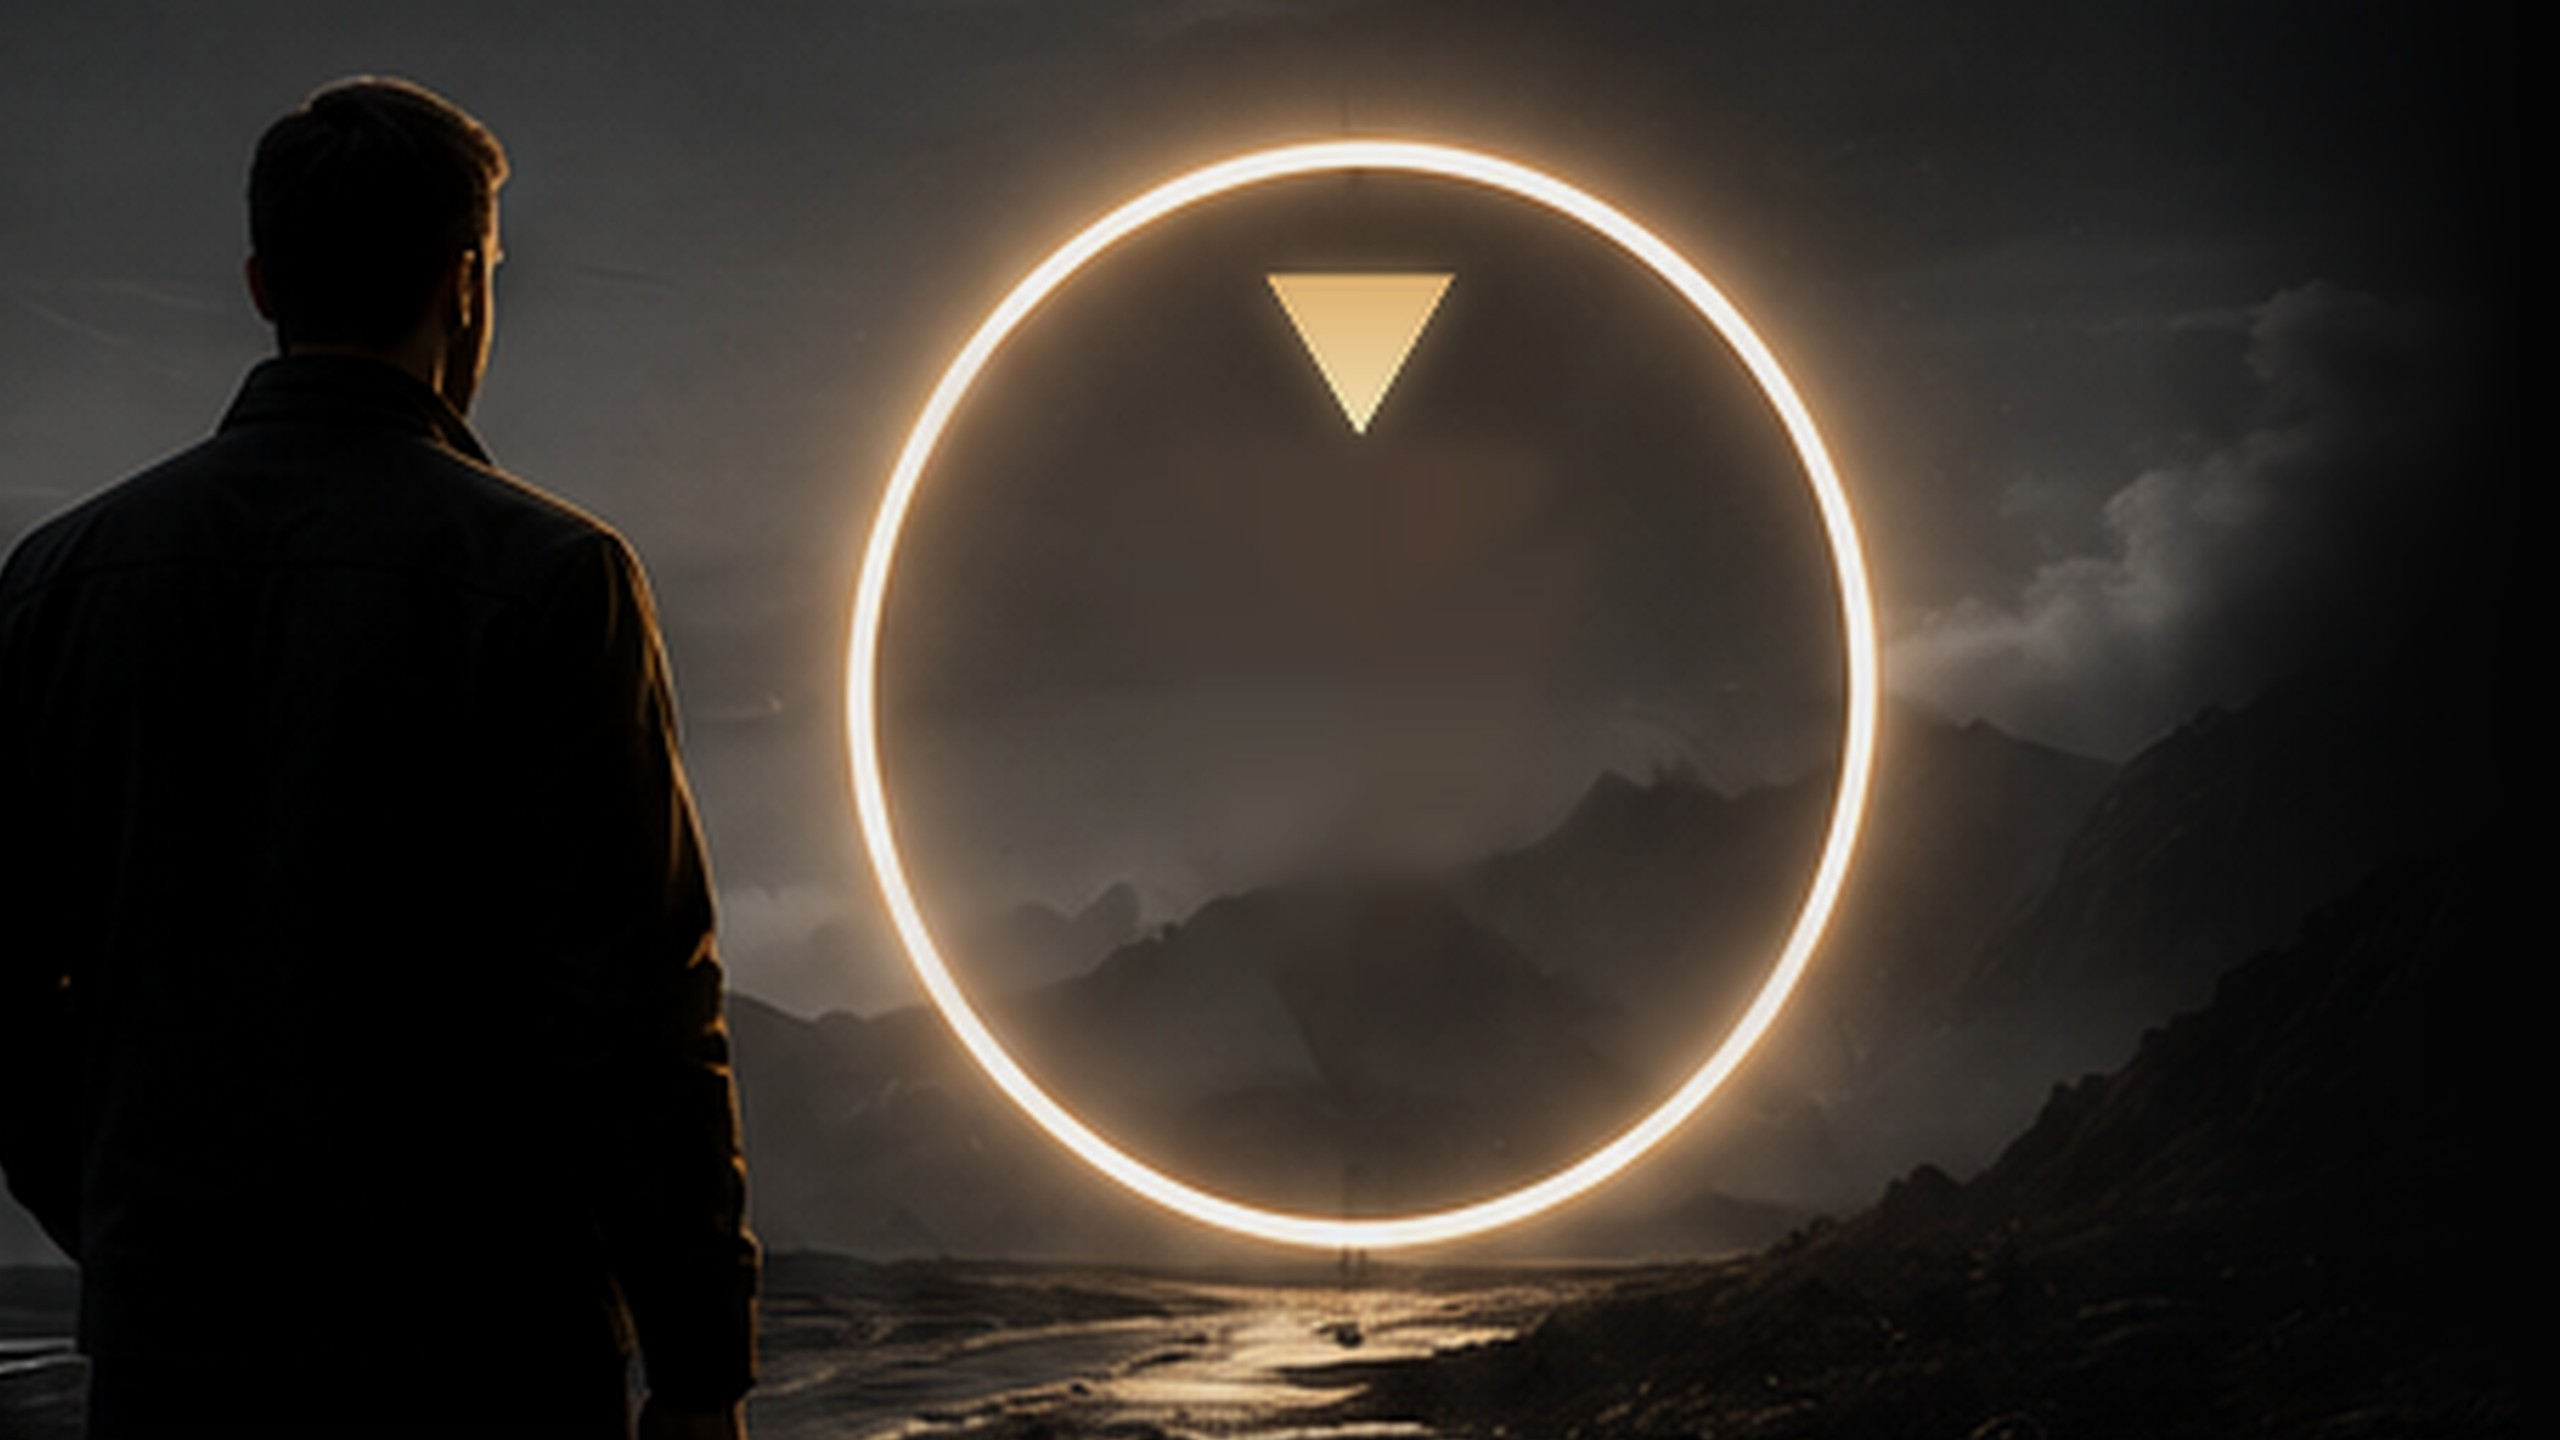
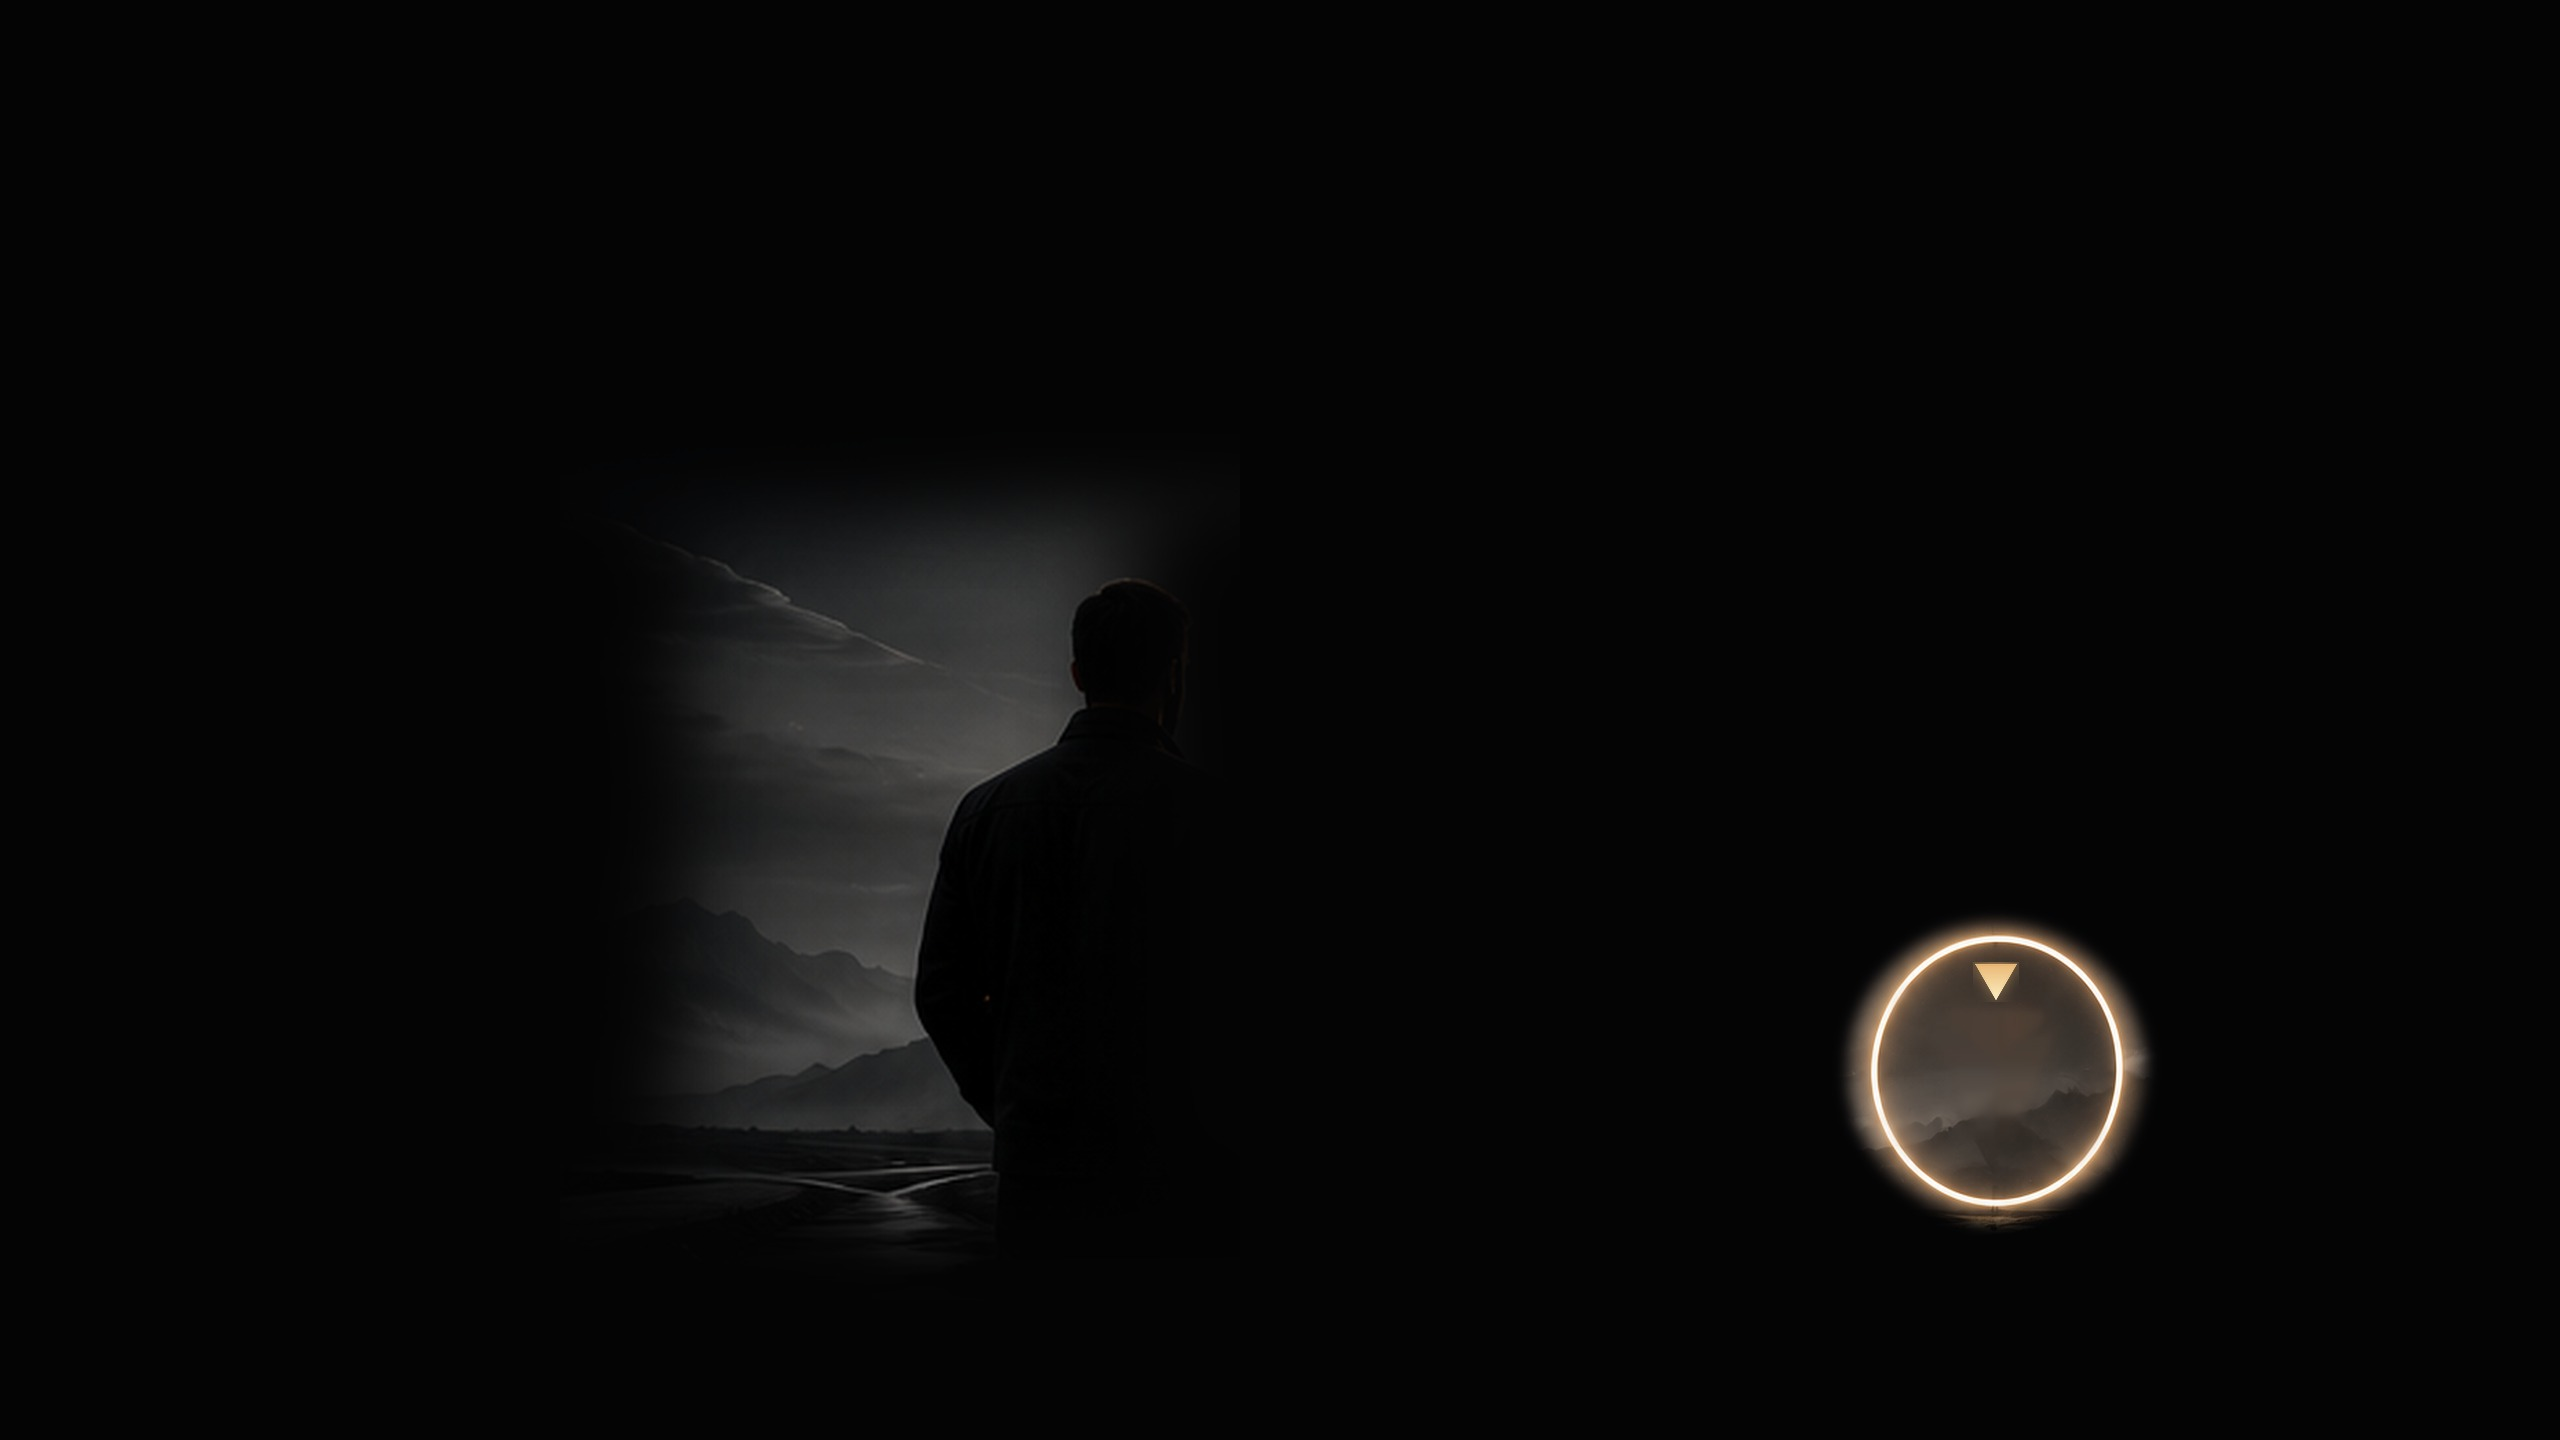
Corrige scroll bloqueado, recompone el Acto II y unifica tipografía
- Bug crítico: body tenía overflow:hidden (heredado de cuando el
  Acto I era la única pantalla), lo que bloqueaba todo el scroll de
  la página — no se podía bajar del Acto I al Acto II ni volver a
  subir. Eliminado.
- Escena del Acto II recompuesta: el hombre y el aro ahora son dos
  «islas» independientes sobre negro puro (no una sola foto a sangre
  completa), lo que permite alejar el aro mucho más a la derecha,
  reducirlo de tamaño, dejarle margen limpio antes del borde y abrir
  una columna de texto igual de despejada que en el Acto I. El aro
  se desvanece con una viñeta radial (no un recorte rectangular).
- Triángulo redibujado a resolución final (nítido, sin heredar el
  desenfoque de la foto de origen de baja resolución).
- Eyebrow del Acto II unificado con la clase .eyebrow de marca
  (mayúsculas, mismo tracking) en vez de un estilo propio, y subido
  de 13 a 15px en toda la página para más legibilidad.
- Nuevos textos de las puertas 01 (La joyería), 02 (La reventa) y 05
  (El superclón); cuerpo de las tarjetas a 15px con más contraste.

Claude-Session: https://claude.ai/code/session_01T42nA8DwhTduzUutQTTGm4

diff --git a/v2/index.html b/v2/index.html
@@ -24,7 +24,7 @@ html,body{height:100%}
 body{
   background:var(--negro);color:var(--hueso);
   font-family:'Nunito Sans',system-ui,sans-serif;
-  -webkit-font-smoothing:antialiased;overflow:hidden;
+  -webkit-font-smoothing:antialiased;
 }
 
 /* logotipo, solo — sin menú: aún no hay a dónde ir */
@@ -63,8 +63,8 @@ body{
   padding:0 44px;max-inline-size:none}
 .texto>*{opacity:0;animation:subir 1s cubic-bezier(.2,.6,.2,1) forwards}
 @keyframes subir{from{opacity:0;transform:translateY(14px)}to{opacity:1;transform:none}}
-.eyebrow{font-family:'JetBrains Mono',monospace;font-size:13px;font-weight:700;
-  letter-spacing:.34em;text-transform:uppercase;color:var(--oro);line-height:2;
+.eyebrow{font-family:'JetBrains Mono',monospace;font-size:15px;font-weight:700;
+  letter-spacing:.3em;text-transform:uppercase;color:var(--oro);line-height:1.85;
   animation-delay:.5s}
 h1{font-family:'Source Serif 4',Georgia,serif;font-weight:400;
   font-size:clamp(40px,4.6vw,76px);line-height:1.12;letter-spacing:.01em;
@@ -92,7 +92,7 @@ h1{font-family:'Source Serif 4',Georgia,serif;font-weight:400;
   .hero .foto{transform-origin:54% 70%}
   .hero .foto img{object-position:center bottom}
   .texto{padding:0 26px;justify-content:flex-start;padding-top:11svh;align-items:flex-start}
-  .eyebrow{font-size:11px;letter-spacing:.26em}
+  .eyebrow{font-size:12.5px;letter-spacing:.24em}
   h1{font-size:clamp(27px,7.7vw,34px);margin-top:20px;max-width:14ch}
   .sub{font-size:16px;margin-top:14px}
   .cta{margin-top:26px;padding:14px 22px;font-size:11.5px}
@@ -110,16 +110,13 @@ h1{font-family:'Source Serif 4',Georgia,serif;font-weight:400;
 .a2-escena{position:relative;min-height:100svh;display:flex;align-items:center;overflow:hidden}
 .a2-escena picture{position:absolute;inset:0;z-index:0}
 .a2-escena img{width:100%;height:100%;object-fit:cover;object-position:center}
-.a2-escena::before{content:"";position:absolute;inset:0;z-index:1;
-  background:linear-gradient(100deg,rgba(5,5,5,.93) 0%,rgba(5,5,5,.80) 32%,rgba(5,5,5,.28) 56%,transparent 72%)}
 .a2-texto{position:relative;z-index:2;max-width:1500px;margin:0 auto;width:100%;padding:0 44px}
-.a2-eyebrow{font-family:'JetBrains Mono',monospace;font-size:13.5px;font-weight:700;
-  letter-spacing:.04em;color:var(--oro);line-height:1.7;max-width:32ch}
+.a2-eyebrow{max-width:30ch}
 .a2-titular{font-family:'Source Serif 4',Georgia,serif;font-weight:400;color:#fff;
-  font-size:clamp(32px,4vw,58px);line-height:1.16;margin-top:22px;max-width:12ch}
-.a2-boton{margin-top:40px;display:inline-flex;align-items:center;gap:10px;background:transparent;
-  border:1px solid rgba(245,211,77,.55);color:var(--ambar);border-radius:2px;padding:16px 26px;
-  font-family:'JetBrains Mono',monospace;font-size:12.5px;font-weight:700;letter-spacing:.16em;
+  font-size:clamp(34px,4.2vw,60px);line-height:1.16;margin-top:24px;max-width:12ch}
+.a2-boton{margin-top:42px;display:inline-flex;align-items:center;gap:10px;background:transparent;
+  border:1px solid rgba(245,211,77,.55);color:var(--ambar);border-radius:2px;padding:17px 28px;
+  font-family:'JetBrains Mono',monospace;font-size:13px;font-weight:700;letter-spacing:.18em;
   text-transform:uppercase;cursor:pointer;transition:background .25s,border-color .25s}
 .a2-boton .laora{font-family:'Nunito Sans',sans-serif;text-transform:none;font-weight:800;letter-spacing:.02em}
 .a2-boton:hover{background:rgba(245,211,77,.08);border-color:var(--ambar)}
@@ -143,7 +140,7 @@ h1{font-family:'Source Serif 4',Georgia,serif;font-weight:400;
 .puerta .ico svg{width:100%;height:100%}
 .puerta h3{font-family:'Nunito Sans',sans-serif;font-weight:800;color:#fff;font-size:14.5px;
   text-transform:uppercase;letter-spacing:.02em;margin:0 0 9px}
-.puerta p{font-size:14px;color:#cfcbc3;line-height:1.4;margin:0 0 16px;min-height:38px}
+.puerta p{font-size:15px;color:#d9d6cf;line-height:1.45;margin:0 0 16px;min-height:52px}
 .puerta .veredicto{display:inline-flex;align-items:center;gap:7px;font-family:'JetBrains Mono',monospace;
   font-size:10.5px;font-weight:700;letter-spacing:.06em;text-transform:uppercase;color:#8a8f96}
 .puerta .veredicto .x{width:15px;height:15px;border:1.3px solid #b23b3b;border-radius:50%;
@@ -158,12 +155,11 @@ h1{font-family:'Source Serif 4',Georgia,serif;font-weight:400;
   .puerta:nth-child(even){padding-left:16px}
 }
 @media(max-width:760px){
-  .a2-escena{align-items:flex-start;padding-top:13svh}
-  .a2-escena::before{background:linear-gradient(178deg,rgba(5,5,5,.95) 0%,rgba(5,5,5,.8) 38%,transparent 66%)}
+  .a2-escena{align-items:flex-start;padding-top:9svh}
   .a2-texto{padding:0 26px}
-  .a2-eyebrow{font-size:11.5px;max-width:24ch}
-  .a2-titular{font-size:clamp(26px,7.4vw,34px);margin-top:16px;max-width:11ch}
-  .a2-boton{margin-top:26px;padding:14px 22px;font-size:11px}
+  .a2-eyebrow{max-width:24ch}
+  .a2-titular{font-size:clamp(27px,7.7vw,34px);margin-top:18px;max-width:11ch}
+  .a2-boton{margin-top:28px;padding:15px 24px;font-size:11.5px}
   .puertas{padding:46px 22px 16px}
   .puerta{padding-bottom:22px}
   .a2-cierre{font-size:21px;padding:26px 24px 70px}
@@ -206,7 +202,7 @@ h1{font-family:'Source Serif 4',Georgia,serif;font-weight:400;
       <img src="/assets/img/acto2-web.jpg" alt="Un hombre de pie ante un aro de luz dorada, frente a una decisión" loading="lazy">
     </picture>
     <div class="a2-texto">
-      <p class="a2-eyebrow">El mismo acero, el mismo zafiro.<br>Sin el peaje de años de publicidad.</p>
+      <p class="eyebrow a2-eyebrow">El mismo acero, el mismo zafiro.<br>Sin el peaje de años de publicidad.</p>
       <h2 class="a2-titular">No es solo un reloj.<br>Es tu forma de elegir lo que importa.</h2>
       <button class="a2-boton" id="porqueBtn" type="button" aria-expanded="false" aria-controls="cincoPuertas">
         <span class="txt">Por qué nace <span class="laora">laOra</span></span> <span class="chev">⌄</span>
@@ -220,15 +216,15 @@ h1{font-family:'Source Serif 4',Georgia,serif;font-weight:400;
         <article class="puerta">
           <span class="num">01</span>
           <span class="ico"><svg viewBox="0 0 24 24" fill="none" stroke="currentColor" stroke-width="1.6" stroke-linecap="round" stroke-linejoin="round"><circle cx="12" cy="12" r="9"/><path d="M12 7v5l3.5 2"/></svg></span>
-          <h3>La boutique</h3>
-          <p>Lista de espera. De años.</p>
-          <span class="veredicto"><span class="x">✕</span> Sin stock</span>
+          <h3>La joyería</h3>
+          <p>Lista de espera. Precios infladísimos.</p>
+          <span class="veredicto"><span class="x">✕</span> Muchos intermediarios</span>
         </article>
         <article class="puerta">
           <span class="num">02</span>
           <span class="ico"><svg viewBox="0 0 24 24" fill="none" stroke="currentColor" stroke-width="1.6" stroke-linecap="round" stroke-linejoin="round"><path d="M4 16l6-6 4 4 6-7"/><path d="M20 7h-4"/><path d="M20 7v4"/></svg></span>
           <h3>La reventa</h3>
-          <p>El mismo reloj. Más caro.</p>
+          <p>Mismo reloj. Más caro aún.</p>
           <span class="veredicto"><span class="x">✕</span> Sobreprecio</span>
         </article>
         <article class="puerta">
@@ -249,7 +245,7 @@ h1{font-family:'Source Serif 4',Georgia,serif;font-weight:400;
           <span class="num">05</span>
           <span class="ico"><svg viewBox="0 0 24 24" fill="none" stroke="currentColor" stroke-width="1.6" stroke-linecap="round" stroke-linejoin="round"><rect x="4" y="4" width="12" height="12" rx="2"/><path d="M9 16v2a2 2 0 0 0 2 2h9a2 2 0 0 0 2-2V9a2 2 0 0 0-2-2h-2"/></svg></span>
           <h3>El superclón</h3>
-          <p>Imita a otro. No es tuyo.</p>
+          <p>Pagas mucho por algo falso. Imita lo que no es.</p>
           <span class="veredicto"><span class="x">✕</span> Sin garantía</span>
         </article>
       </div>
